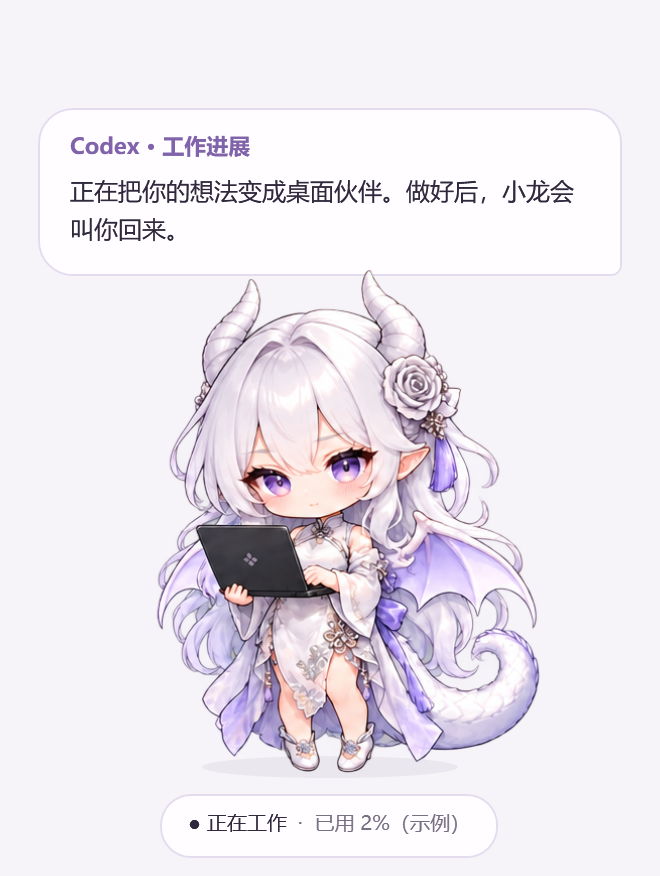
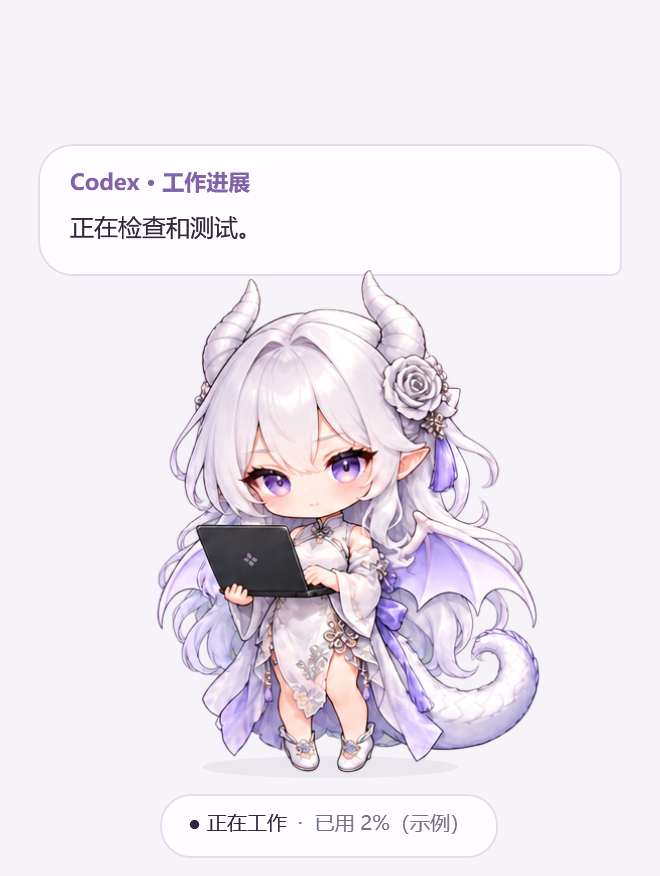
feat: launch Codex together with pet and keep status bubbles brief

Changed region(s): [[0.0909, 0.1541, 0.5758, 0.2774], [0.6061, 0.1849, 0.7273, 0.2466], [0.7576, 0.1849, 0.8788, 0.2466]]

diff --git a/src/App.cs b/src/App.cs
@@ -228,7 +228,7 @@ namespace CodexDragon
                 SetupTray();
                 timer = new DispatcherTimer { Interval = TimeSpan.FromSeconds(1) };
                 timer.Tick += delegate { Tick(); }; timer.Start(); Tick();
-                Say("Codex 小龙 · 已就位", "我在旁边陪你。工作结束时，我会叫你回来。", 12);
+                Say("Codex 小龙", "已就位，陪你工作。", 8);
             }
             else monitor = new SessionMonitor(System.IO.Path.Combine(System.IO.Path.GetTempPath(), "codex-pet-preview-no-sessions"));
         }
@@ -283,7 +283,7 @@ namespace CodexDragon
             if (!settings.Notifications) return;
             if (!String.IsNullOrEmpty(settings.PinnedThread) && session.Id != settings.PinnedThread) return;
             lastCompletedId = session.Id;
-            Say("本轮工作结束啦", session.Result.Length > 0 ? Ui.Short(session.Result, 90) : "回来看看 Codex 的结果吧。", 25); SetMood(Mood.Done); Wiggle();
+            Say("本轮工作结束啦", "回来看看结果吧。", 25); SetMood(Mood.Done); Wiggle();
             if (settings.Sound && !settings.Quiet) SystemSounds.Asterisk.Play();
             if (tray != null && !settings.Quiet)
             {
@@ -323,7 +323,7 @@ namespace CodexDragon
             else
             {
                 bubbleTitle.Text = selected != null && selected.Running ? "Codex · 工作进展" : "Codex 小龙";
-                bubbleText.Text = selected != null && selected.Running ? Ui.Short(String.IsNullOrEmpty(selected.PublicMessage) ? stage : selected.PublicMessage, 95) : mood == Mood.Done ? "这一轮结束了，结果在 Codex 里等你。" : "我在这里。双击我，可以看工作状态和额度。";
+                bubbleText.Text = selected != null && selected.Running ? stage : mood == Mood.Done ? "结果已就绪。" : "我在这里。";
             }
             UpdateBubbleVisibility();
             if (tray != null) tray.Text = Ui.Short("Codex 小龙 · " + stage, 60);
@@ -520,7 +520,7 @@ namespace CodexDragon
             floatTransform.BeginAnimation(TranslateTransform.YProperty, null);
             scene.Background = Ui.Brush("#F6F4F8");
             SetMood(Mood.Working); bubbleTitle.Text = "Codex · 工作进展";
-            bubbleText.Text = "正在把你的想法变成桌面伙伴。做好后，小龙会叫你回来。";
+            bubbleText.Text = "正在检查和测试。";
             statusText.Text = "● 正在工作"; quotaText.Text = "  ·  已用 2%（示例）";
             scene.Measure(new Size(330, 438)); scene.Arrange(new Rect(0, 0, 330, 438)); scene.UpdateLayout();
             var bitmap = new RenderTargetBitmap(660, 876, 192, 192, PixelFormats.Pbgra32); bitmap.Render(scene);

diff --git a/src/State.cs b/src/State.cs
@@ -139,7 +139,7 @@ namespace CodexDragon
                 if (type == "task_started")
                 {
                     TurnId = Json.Text(payload, "turn_id"); Running = true; Mood = Mood.Thinking;
-                    Stage = "开始处理你的请求"; PublicMessage = ""; Result = ""; Started = at; Updated = at;
+                    Stage = "正在准备"; PublicMessage = ""; Result = ""; Started = at; Updated = at;
                 }
                 else if (type == "task_complete")
                 {
@@ -216,7 +216,7 @@ namespace CodexDragon
             else if (activity.Contains("web__") || activity.Contains("search") || activity.Contains("browser") || activity.Contains("cua")) Stage = "正在查阅资料";
             else if (activity.Contains("get-content") || activity.Contains("read_file") || activity.Contains("rg ")) Stage = "正在阅读文件";
             else if (activity.Contains("wait") || activity.Contains("sleep")) { Stage = "正在等待结果"; Mood = Mood.Waiting; }
-            else Stage = "正在使用工具处理任务";
+            else Stage = "正在处理任务";
             Updated = at;
         }
     }

diff --git a/tests/UiIntegration.cs b/tests/UiIntegration.cs
@@ -112,7 +112,7 @@ public static class UiIntegration
                     var state = Json.Parse(File.ReadAllText(Path.Combine(completed, "live-check.json")));
                     Check(Json.Get(state, "running").Equals(false) && Json.Number(state, "spriteFrame") == 3, "completion event selects celebration sprite");
                     Check(Json.Text(state, "bubbleTitle") == "本轮工作结束啦", "completion bubble is actually displayed");
-                    Check(Json.Get(state, "bubbleVisible").Equals(true) && Json.Text(state, "bubbleText") == "任务结果已就绪。", "completion overrides folding and displays the actual result");
+                    Check(Json.Get(state, "bubbleVisible").Equals(true) && Json.Text(state, "bubbleText") == "回来看看结果吧。", "completion overrides folding with a short status message");
                     Check(Json.Text(state, "lastCompletedThreadId") == ThreadId, "real notification callback was dispatched");
                     Check(File.Exists(Path.Combine(completed, "live-pet.png")), "completed native UI was rendered for inspection");
                     timer.Stop(); pet.Close();

diff --git a/src/Companion.cs b/src/Companion.cs
@@ -60,7 +60,7 @@ namespace CodexDragon
         private void PetHead()
         {
             pettingCount++;
-            string[] replies = { "嗯…收到摸摸了。小龙继续陪你工作。", "角角有点痒。再陪你认真一会儿。", "被你发现我在这里啦。今天也一起加油。" };
+            string[] replies = { "收到摸摸，继续加油。", "角角有点痒。", "今天也一起加油。" };
             Say("角色碎碎念", replies[random.Next(replies.Length)], 8); Wiggle();
             if (settings.ReduceMotion) return;
             heart.Opacity = 1;

diff --git a/README.md b/README.md
@@ -12,6 +12,8 @@ Windows 悬浮桌面伙伴。银白发、紫瞳、龙角、白色中式裙装的
 
 双击 `start.cmd`，或者直接运行 `bin/CodexDragonPet.exe`。桌宠默认出现在屏幕右下角，置顶显示。已经运行时再次启动会把她从托盘唤回。
 
+需要同时打开 Codex 时，双击 `start-with-codex.cmd`；它会启动或复用已打开的 Codex 桌面应用，并启动小龙。这是联合启动入口，不会修改系统开机启动项或添加常驻监控程序。`start.cmd` 仍然只启动小龙。
+
 - **拖动角色**：移动位置，退出时自动保存。
 - **单击角色**：角色碎碎念和轻轻摇摆。
 - **双击角色 / 单击底部状态条**：打开工作与额度面板。
@@ -27,7 +29,7 @@ Windows 悬浮桌面伙伴。银白发、紫瞳、龙角、白色中式裙装的
 
 六个角色姿态：待机、工作、思考、完成、等待、额度偏低。角色带呼吸浮动，完成时摇摆庆祝。工作进展气泡显示 Codex 公开的 commentary 消息与工具类别；碎碎念明确标注为角色台词。
 
-单击摸头会显示角色回应，姿态切换有淡入过渡。普通气泡显示一段时间后自动收起，悬停可查看；完成时会重新显示提醒及公开的结果摘要。面板包含最近结束的本机聊天入口。
+单击摸头会显示简短回应，姿态切换有淡入过渡。桌面气泡只显示一句话状态，例如“正在阅读文件”“正在检查和测试”；完整公开进展和结果摘要保留在工作面板中。普通气泡过一段时间自动收起，完成时重新显示简短提醒。面板包含最近结束的本机聊天入口。
 
 监听本机 Codex 聊天记录，约每秒读取增量。当观察到正在运行的一轮发出 `task_complete` 事件时，用角色气泡、托盘通知和可关闭的提示音提醒。启动时不重播历史提醒，同一轮不会重复提醒；中断与失败单独显示。完成提示表示该轮已结束，具体结果以 Codex 回复为准。
 

diff --git a/DEPENDENCIES.md b/DEPENDENCIES.md
@@ -11,4 +11,6 @@
 
 首次从源码启动时，`start.cmd` 会在 `bin/` 中缺少程序时调用 `build.ps1`。运行包中已包含程序，可以直接双击 `start.cmd`。
 
+`start-with-codex.cmd` 为联合启动入口，使用 Windows 已注册的 OpenAI.Codex 应用标识唤起 Codex，不会把 Codex CLI 当成桌面程序启动。
+
 GPU 性能采样依赖 Windows 的 GPU Engine 与 GPU Process Memory 计数器；计数器不可用时会记为 `null`，不会当作 0。
